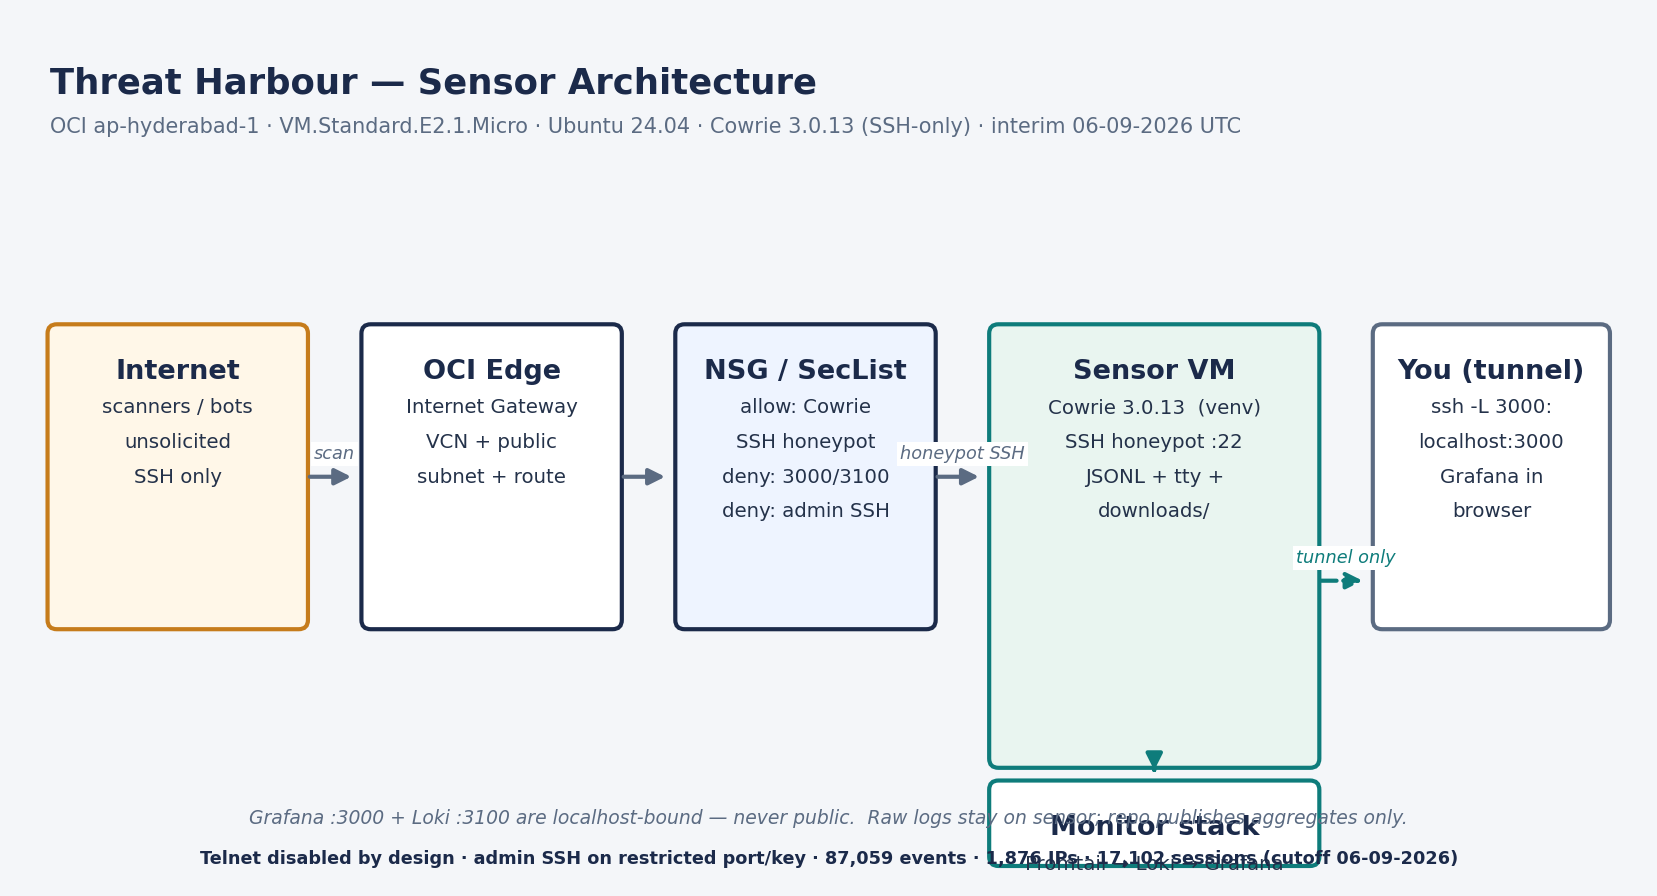
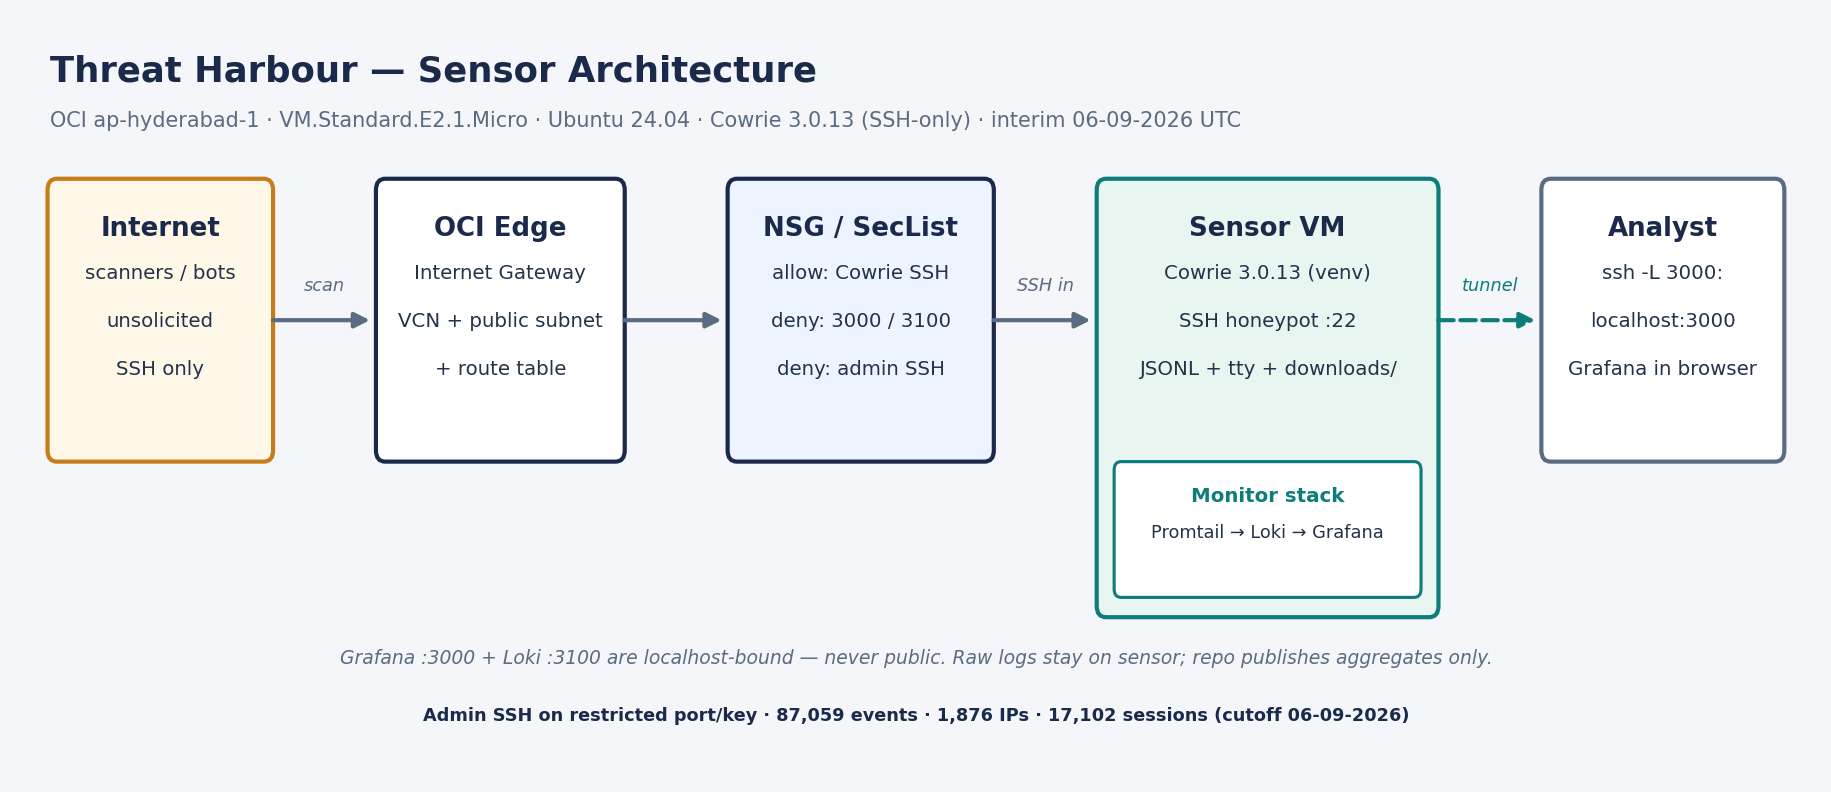
Updated formatting

diff --git a/README.md b/README.md
@@ -1,25 +1,17 @@
 # Threat Harbour
 ## A Cowrie-Based Cloud Threat Intelligence Sensor
 
-Hello Hackers!  
+> A lightweight Cowrie SSH honeypot sensor on Oracle Cloud Infrastructure Free Tier for defensive security research. I usually do red teaming — this is my look at the other side: what actually hits an exposed box on the internet.
 
-Today, I will be trying out something new. Usually I am all about red teaming, CTF's and breaking into stuff (legally of course)  
+## Collected Data — interim, frozen `06-09-2026 UTC` (sensor still running)
 
-But today, I've decided to spin up my own honeypot, using Cowrie, to learn more about the other side of the game.   
-
-We will analyze what happens to our instance on internet, which will provide us an insight on how attackers think and work.   
-
-> A lightweight Cowrie SSH honeypot sensor deployed on Oracle Cloud Infrastructure Free Tier for defensive security research.
-
-## Collected Data (interim, frozen at `06-09-2026 UTC` — sensor still running)
-
-Observation: `27-08-2026` → `ongoing` · `87,059` events · `1,876` source IPs · `17,102` SSH sessions · Cowrie `3.0.13` · SSH-only.
+`27-08-2026` → `ongoing` · Cowrie `3.0.13` · SSH-only · `ap-hyderabad-1`.
 
 | Total events | Unique IPs | Sessions | Fake logins | Commands | Downloads (+uploads) |
 |---|---|---|---|---|---|
 | `87,059` | `1,876` | `17,102` | `7,404` / 81 failed | `6,521` (+67 failed) | `66` (+5) |
 
-| # | Top username (tries) | Top password (tries) | Top command (tries) |
+| # | Top username | Top password | Top command |
 |---|---|---|---|
 | 1 | `root` (3,311) | `123456` (461) | `uname -s -v -n -r -m` (4,692) |
 | 2 | `admin` (342) | `1234` (234) | `hostname` (249) |
@@ -27,9 +19,17 @@ Observation: `27-08-2026` → `ongoing` · `87,059` events · `1,876` source IPs
 | 4 | `ubuntu` (191) | `12345678` (130) | `whoami` (122) |
 | 5 | `test` (138) | `admin` (117) | `pwd` (101) |
 
-More that is relevant: median session `8.4s` (52% under 10s); `91%` of commands are discovery/fingerprinting; repeated persistence probes writing toward `authorized_keys` (hash `a8460f44…`, URL null — SFTP-style write, content withheld); busiest /16 by volume `91.92.0.0/16` (36,956 events) — volume only, never attribution. Per-day UTC: 08-27: 964 · 08-28: 15,483 · 08-29: 17,457 · 08-30: 6,980 · 08-31: 6,317 · 09-01: 3,941 · 09-02: 4,684 · 09-03: 4,970 · 09-04: 4,309 · 09-05: 3,592 · 09-06: 18,362 (partial-day spike).
+Key findings:
 
-Full method + tables: [`analysis/summary.md`](analysis/summary.md), [`analysis/metrics.json`](analysis/metrics.json). These results describe this sensor only.
+- Median session `8.4s` (52% under 10s) — mostly automated scanning, not humans.
+- `91%` of commands are discovery/fingerprinting (`uname`, `hostname`, `whoami`).
+- Repeated persistence probes writing toward `authorized_keys` (hash `a8460f44…`, content withheld).
+- Busiest /16 by volume: `91.92.0.0/16` (36,956 events) — volume only, never attribution.
+
+![Session funnel](diagrams/session-funnel.png)
+![Activity timeline](diagrams/activity-timeline.png)
+
+Method + full tables: [`analysis/summary.md`](analysis/summary.md), [`analysis/metrics.json`](analysis/metrics.json). These results describe this sensor only.
 
 ## Executive Summary
 
@@ -51,18 +51,9 @@ The sensor focuses on SSH interaction, operational reliability, careful data col
 ## Architecture
 
 ![Architecture diagram](diagrams/architecture.png)
-
-The architecture consists of one OCI VM in a public subnet. The VM hosts the
-operating system, SSH-only Cowrie, logging, local analysis utilities, and
-localhost-bound dashboard components (reached via SSH tunnel, never public).
-
-Further diagrams:
-
 ![Data pipeline](diagrams/data-pipeline.png)
-![Session funnel](diagrams/session-funnel.png)
-![Activity timeline](diagrams/activity-timeline.png)
 
-See [docs/architecture.md](docs/architecture.md).
+One OCI VM in a public subnet: SSH-only Cowrie plus localhost-bound logging and dashboard components (reached via SSH tunnel, never public). See [docs/architecture.md](docs/architecture.md).
 
 ## Technology Stack
 
@@ -72,10 +63,9 @@ See [docs/architecture.md](docs/architecture.md).
 | Region | `ap-hyderabad-1` |
 | Compute shape | `VM.Standard.E2.1.Micro` |
 | Operating system | `Canonical Ubuntu 24.04` |
-| Honeypot | Cowrie `3.0.13` |
-| Runtime | `Docker` |
-| Collection format | Cowrie JSON logs parsed via Loki |
-| Dashboard | `Grafana + Loki` |
+| Honeypot | Cowrie `3.0.13` (venv) |
+| Monitoring | `Docker`: Grafana + Loki + Promtail |
+| Collection | Cowrie JSONL (`job=cowrie` via Promtail/Loki; offline Python parse) |
 | Administration | `SSH restricted to private-key holders only` |
 | Time standard | UTC |
 
@@ -97,26 +87,6 @@ To reduce resource pressure, the deployment prioritizes:
 - Offline analysis
 - Restricted dashboard access
 - Rebuildability over long-term local accumulation
-
-## Observation Scope
-
-Observation period: `27-08-2026` to `ongoing` (interim analysis frozen at `06-09-2026 UTC`).
-
-The sensor records activity directed at intentionally exposed Cowrie services. It does not scan external systems, initiate attacks, or attempt to identify operators.
-
-## Results detail (same interim cutoff as above)
-
-- Total events: `87,059`
-- Unique source IPs: `1,876`
-- SSH sessions: `17,102` (SSH-only sensor; Telnet is disabled, not just unobserved)
-- Successful fake logins: `7,404`
-- Commands observed: `6,521` command-input events
-- Download attempts: `66` (+5 uploads)
-- Observation continuity: daily log files for every day `27-08-2026` through `06-09-2026`, no missing days (uptime % not claimed)
-
-See `analysis/summary.md` and `analysis/metrics.json` for method and full tables.
-
-These results describe this sensor only. They do not represent all Internet activity.
 
 ## Dashboard
 

diff --git a/analysis/summary.md b/analysis/summary.md
@@ -21,7 +21,7 @@ Observation: `2026-08-27` → `ongoing`. Numbers below are frozen at
 | Total events | 87,059 |
 | Unique source IPs | 1,876 |
 | Sessions (`cowrie.session.connect`) | 17,102 |
-| SSH events | 87,059 (100%; SSH-only sensor, Telnet disabled) |
+| SSH events | 87,059 (100%) |
 | Fake successful logins (`cowrie.login.success`) | 7,404 |
 | Failed logins | 81 |
 | Command-input events | 6,521 (+67 `command.failed`) |
@@ -56,7 +56,7 @@ Per-day UTC: 08-27: 964 · 08-28: 15,483 · 08-29: 17,457 · 08-30: 6,980 ·
 
 ## Limitations that shape these numbers
 
-- One SSH-only sensor, one region (Telnet disabled by design).
+- One SSH-only sensor, one region.
 - Cowrie emulation + Free Tier resource limits bias what is recorded.
 - 2026-09-06 is a partial-day spike; do not annualize it.
 - Geo/attribution claims are out of scope (see `docs/limitations.md`).

diff --git a/docs/deployment.md b/docs/deployment.md
@@ -31,7 +31,7 @@ sensor public IP, OCIDs, or keys.
 Allow only the intended honeypot ports from the Internet (SSH to Cowrie).
 Administrative and analytical services must NOT be public:
 
-- Cowrie SSH honeypot: public, SSH-only (Telnet disabled by design)
+- Cowrie SSH honeypot: public
 - Admin SSH: restricted port/key only (not the honeypot port)
 - Grafana (`3000`) and Loki (`3100`): localhost-bound, reached via SSH
   tunnel (e.g. `ssh -L 3000:localhost:3000`), never exposed publicly

diff --git a/CHANGELOG.md b/CHANGELOG.md
@@ -4,7 +4,7 @@
 
 - Froze interim metrics at `2026-09-06T20:36:00Z`: 87,059 events, 1,876
   source IPs, 17,102 SSH sessions, 7,404 fake logins, 6,521 commands,
-  66 downloads (+5 uploads). SSH-only sensor (Telnet disabled).
+  66 downloads (+5 uploads). SSH-only sensor.
 - Added `analysis/metrics.json`, `analysis/summary.md`,
   `evidence/manifest.md`
 - Filled `docs/threat-intelligence.md` (interim findings, redacted IoCs)

diff --git a/docs/architecture.md b/docs/architecture.md
@@ -13,7 +13,7 @@ The VM contains:
 - Local storage
 - Analysis scripts
 
-The term single-node refers to the infrastructure layout. This deployment runs Cowrie as an SSH-only sensor; Telnet emulation is disabled by design to fit Free Tier resources and keep the observation scope tight.
+The term single-node refers to the infrastructure layout.
 
 ## Network Flow
 

diff --git a/docs/threat-intelligence.md b/docs/threat-intelligence.md
@@ -6,7 +6,7 @@
 
 ## Scope
 
-One Cowrie `3.0.13` sensor, SSH-only (Telnet disabled by design).
+One Cowrie `3.0.13` sensor (SSH).
 No external scanning was performed.
 
 ## Data sources
